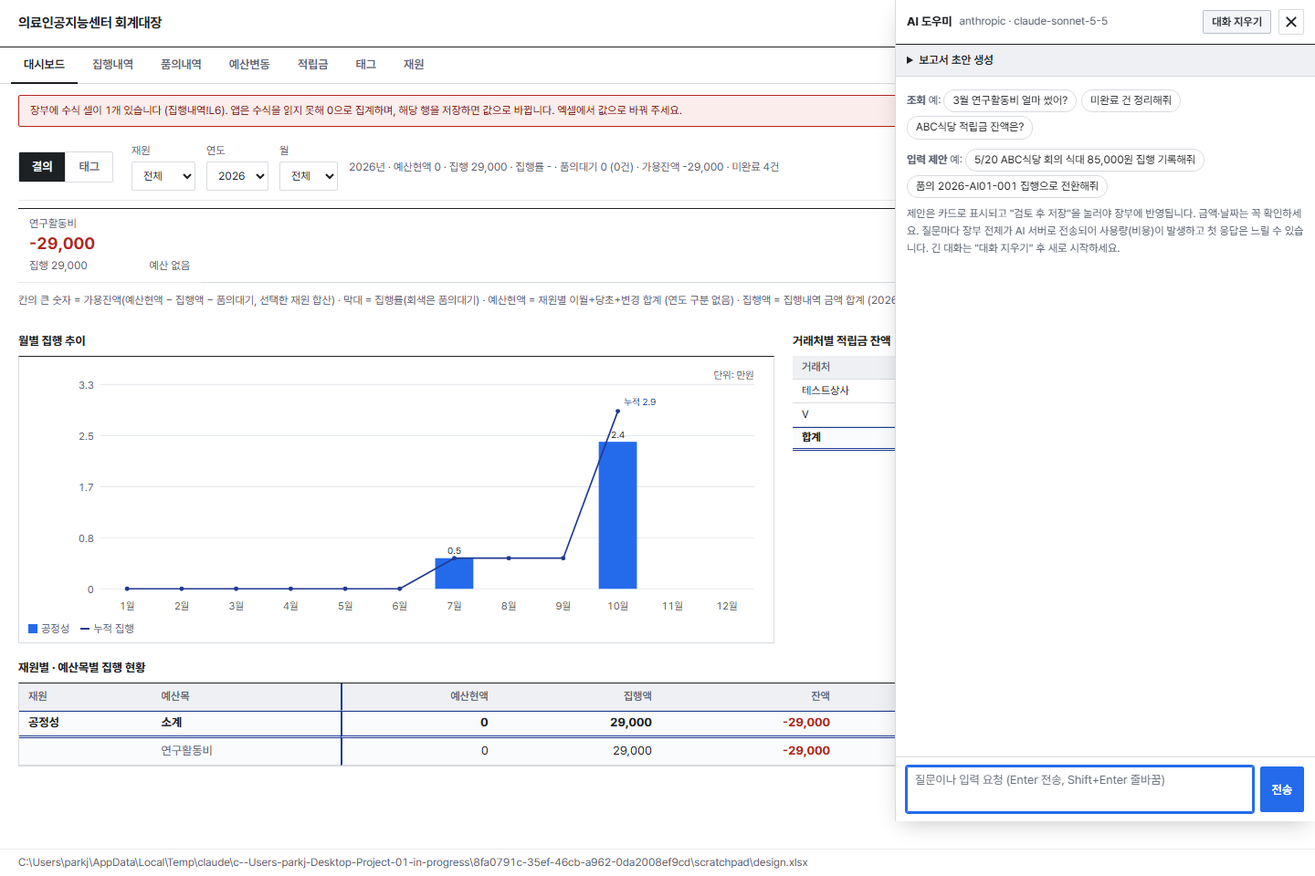
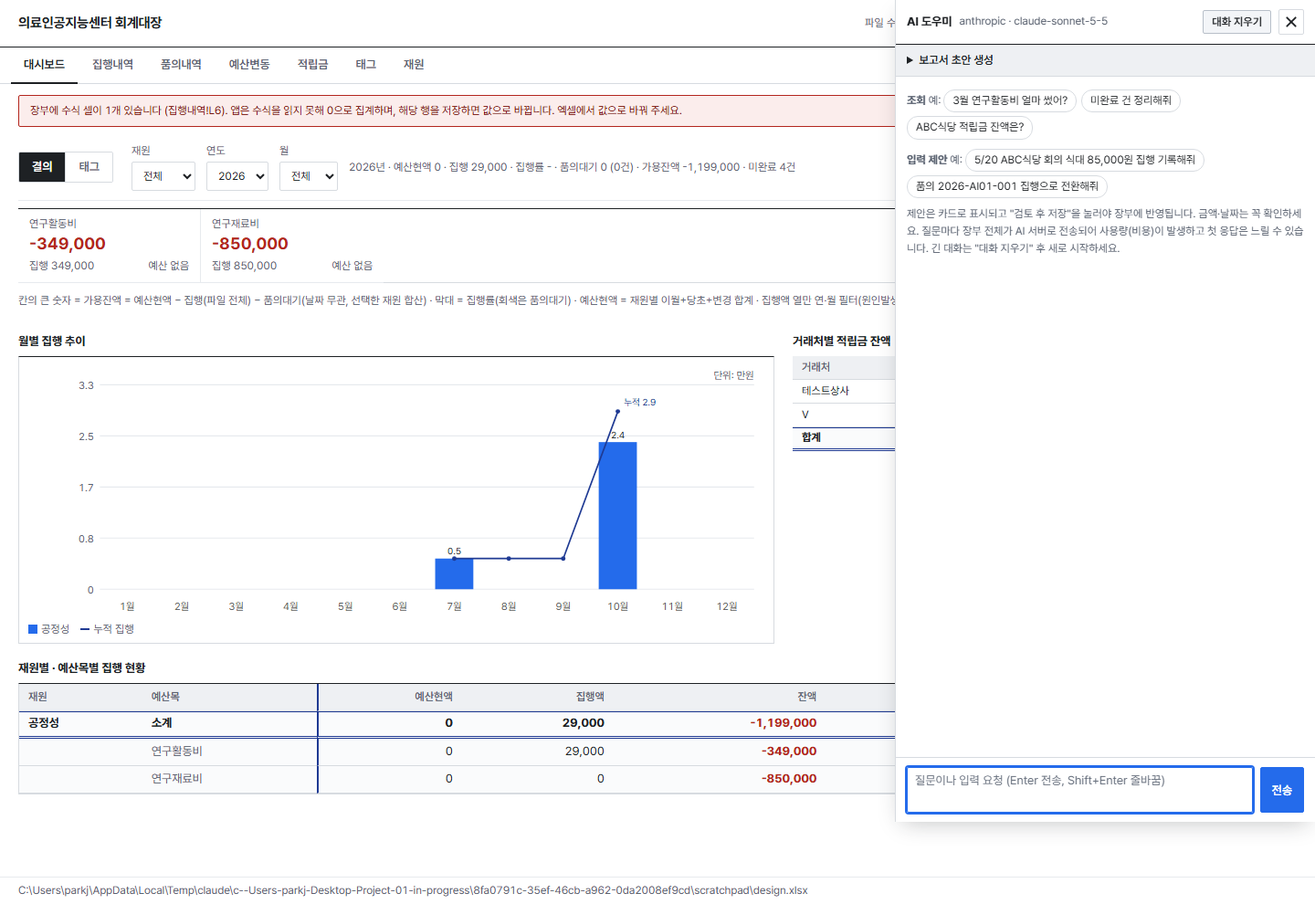
숫자 정의 통일: 가용잔액 공용 함수·대기 품의 날짜 무관·전환/수정 이중 차감 수정·인건비 합계 분리·선급 기준월·로컬 날짜
- availableBudget(fund, item, {excludeReq, excludeExec}) 를 대시보드·집행내역 열·저장 경고가 공유
- 대시보드 잔액·가용잔액·집행률은 파일 전체 기준, 연·월 필터는 집행액 열만. '집계 제외 n건' 링크
- 인건비 지급처 현황 합계는 예산 관리 행만, 관리 안 함 지급은 별도 줄
- 선급/미지급 발생은 직전 달까지, 지급은 이번 달까지
- today()/curMonth() 로컬 날짜 (UTC 오전 9시 전 어제 날짜 문제)

diff --git a/app/static/app.js b/app/static/app.js
@@ -6,7 +6,8 @@ const $$ = (s, el = document) => [...el.querySelectorAll(s)];
 const fmt = n => (n == null || isNaN(n)) ? "" : Math.round(n).toLocaleString("ko-KR");
 const pct = r => r == null ? "-" : (r * 100).toFixed(1) + "%";
 const esc = s => String(s ?? "").replace(/[&<>"']/g, c => ({ "&": "&amp;", "<": "&lt;", ">": "&gt;", '"': "&quot;", "'": "&#39;" }[c]));
-const today = () => new Date().toISOString().slice(0, 10);
+const localISO = d => `${d.getFullYear()}-${String(d.getMonth() + 1).padStart(2, "0")}-${String(d.getDate()).padStart(2, "0")}`;
+const today = () => localISO(new Date());  // 로컬(한국) 날짜. toISOString 은 UTC 라 오전 9시 전에 어제가 됨
 const mmdd = d => (typeof d === "string" && /^\d{4}-\d{2}-\d{2}$/.test(d)) ? d.slice(5, 7) + "/" + d.slice(8, 10) : d;
 // 행 식별값 (서버가 다른 창/MCP 에서 행이 밀렸는지 검사)
 const IDENT = { funds: ["재원코드"], exec: ["거래번호"], req: ["품의번호"], tags: ["태그명"], budget: ["재원", "변경회차", "신청일자"], deposit: ["일자", "거래처", "구분", "금액"] };
@@ -234,6 +235,7 @@ function filtered(kind) {
       if (QUICK === "fix" && r["상태"] !== "보완") return false;
       if (QUICK === "done" && r["상태"] !== "완료") return false;
       if (QUICK === "noevid" && hasEvidence(r)) return false;
+      if (QUICK === "excluded" && !isExcludedExec(r)) return false;
     }
     if (q && !Object.entries(r).some(([k, v]) => !k.startsWith("_") && norm(v).includes(q))) return false;
     return true;
@@ -404,35 +406,41 @@ function renderDashboard() {
   const inYear = r => !year || (r["원인발생일"] || "").startsWith(year);
   const upTo = r => !month || (r["원인발생일"] || "").slice(5, 7) <= month;
   const inMonth = r => month && (r["원인발생일"] || "").slice(5, 7) === month;
-  const execs = DATA.exec.filter(r => (!fund || r["재원"] === fund) && inYear(r) && upTo(r));
-  const reqs = DATA.req.filter(r => r["상태"] === "대기" && (!fund || r["재원"] === fund) && inYear(r) && upTo(r));
+  // 잔액·가용잔액·집행률은 파일 전체 기준(sa), 연·월 필터는 '집행액'(s)·'M월 집행'(sm) 열에만 적용. 대기 품의는 날짜 무관 전부 차감 (2026-10-13 결정)
+  const execsAll = DATA.exec.filter(r => !fund || r["재원"] === fund);
+  const execs = execsAll.filter(r => inYear(r) && upTo(r));
+  const reqs = DATA.req.filter(r => r["상태"] === "대기" && (!fund || r["재원"] === fund));
   const budgets = DATA.budget.filter(r => !fund || r["재원"] === fund);
 
-  const cell = () => ({ b: 0, s: 0, sm: 0, p: 0 });
+  const cell = () => ({ b: 0, s: 0, sm: 0, sa: 0, p: 0 });
   const m = {};
   funds.forEach(f => { m[f] = {}; items.forEach(i => m[f][i] = cell()); });
   budgets.forEach(r => m[r["재원"]] && items.forEach(i => m[r["재원"]][i].b += r[i] || 0));
-  execs.forEach(r => { const c = m[r["재원"]]?.[r["예산목"]]; if (c) { c.s += r["금액"] || 0; if (inMonth(r)) c.sm += r["금액"] || 0; } });
+  const excluded = [];  // 재원 목록 밖(외부 지급처 인건비 등)·예산목 목록 밖 집행: 예산 집계에서 제외
+  execsAll.forEach(r => { const c = m[r["재원"]]?.[r["예산목"]]; if (!c) { if (inYear(r) && upTo(r)) excluded.push(r); return; } c.sa += r["금액"] || 0; if (inYear(r) && upTo(r)) { c.s += r["금액"] || 0; if (inMonth(r)) c.sm += r["금액"] || 0; } });
   reqs.forEach(r => m[r["재원"]]?.[r["예산목"]] && (m[r["재원"]][r["예산목"]].p += r["금액"] || 0));
+  const add = (t, c) => { t.b += c.b; t.s += c.s; t.sm += c.sm; t.sa += c.sa; t.p += c.p; };
 
   // 카드
   const tot = cell();
-  funds.forEach(f => items.forEach(i => { tot.b += m[f][i].b; tot.s += m[f][i].s; tot.sm += m[f][i].sm; tot.p += m[f][i].p; }));
+  funds.forEach(f => items.forEach(i => add(tot, m[f][i])));
   const unpaid = execs.filter(r => !r["지출완료일"]).length;
-  const itemCards = items.map(i => { const c = cell(); funds.forEach(f => { c.b += m[f][i].b; c.s += m[f][i].s; c.sm += m[f][i].sm; c.p += m[f][i].p; }); return [i, c]; })
-    .filter(([, c]) => c.b || c.s || c.p);
+  const itemCards = items.map(i => { const c = cell(); funds.forEach(f => add(c, m[f][i])); return [i, c]; })
+    .filter(([, c]) => c.b || c.sa || c.p);
   $("#dash-cards").innerHTML = itemCards.length ? itemCards.map(([i, c]) => {
-    const avail = c.b - c.s - c.p, rate = c.b ? c.s / c.b : null, used = c.b ? Math.min(1, (c.s + c.p) / c.b) : 1;
-    const bar = c.b ? `<div class="bar" aria-hidden="true"><i class="${c.s > c.b ? "over" : ""}" style="width:${Math.min(100, c.s / c.b * 100).toFixed(1)}%"></i>${c.p ? `<i class="p" style="left:${Math.min(100, c.s / c.b * 100).toFixed(1)}%;width:${Math.max(0, (used - Math.min(1, c.s / c.b)) * 100).toFixed(1)}%"></i>` : ""}</div>` : "";
-    return `<div class="card" role="listitem" title="${esc(i)}: 예산현액 ${fmt(c.b)} · 집행 ${fmt(c.s)}${c.p ? ` · 품의대기 ${fmt(c.p)}` : ""} · 가용잔액 ${fmt(avail)}"><div class="k">${esc(i)}</div><div class="v${avail < 0 ? " neg" : ""}">${fmt(avail)}</div><div class="sub"><span>집행 ${fmt(c.s)}${c.p ? ` <span class="muted">+대기 ${fmt(c.p)}</span>` : ""}</span><span>${rate == null ? "예산 없음" : pct(rate)}</span></div>${bar}</div>`;
+    const avail = c.b - c.sa - c.p, rate = c.b ? c.sa / c.b : null, used = c.b ? Math.min(1, (c.sa + c.p) / c.b) : 1;
+    const bar = c.b ? `<div class="bar" aria-hidden="true"><i class="${c.sa > c.b ? "over" : ""}" style="width:${Math.min(100, c.sa / c.b * 100).toFixed(1)}%"></i>${c.p ? `<i class="p" style="left:${Math.min(100, c.sa / c.b * 100).toFixed(1)}%;width:${Math.max(0, (used - Math.min(1, c.sa / c.b)) * 100).toFixed(1)}%"></i>` : ""}</div>` : "";
+    return `<div class="card" role="listitem" title="${esc(i)}: 예산현액 ${fmt(c.b)} · 집행 ${fmt(c.sa)}${c.p ? ` · 품의대기 ${fmt(c.p)}` : ""} · 가용잔액 ${fmt(avail)}"><div class="k">${esc(i)}</div><div class="v${avail < 0 ? " neg" : ""}">${fmt(avail)}</div><div class="sub"><span>집행 ${fmt(c.sa)}${c.p ? ` <span class="muted">+대기 ${fmt(c.p)}</span>` : ""}</span><span>${rate == null ? "예산 없음" : pct(rate)}</span></div>${bar}</div>`;
   }).join("") : `<div class="card empty-card"><div class="k">예산목별 가용잔액</div><div class="v">-</div><div class="sub"><span>${DATA.funds.length ? "예산·집행 데이터가 없습니다" : "재원을 먼저 등록하세요"}</span></div></div>`;
-  $("#dash-note").textContent = (year ? (month ? `${year}년 1월~${parseInt(month)}월 누계 · ` : `${year}년 · `) : "전체 기간 · ") + `예산현액 ${fmt(tot.b)} · 집행 ${fmt(tot.s)}${month ? ` (${parseInt(month)}월 ${fmt(tot.sm)})` : ""} · 집행률 ${tot.b ? pct(tot.s / tot.b) : "-"} · 품의대기 ${fmt(tot.p)} (${reqs.length}건) · 가용잔액 ${fmt(tot.b - tot.s - tot.p)} · 미완료 ${unpaid}건`;
-  $("#dash-defs").innerHTML = `칸의 큰 숫자 = 가용잔액(예산현액 − 집행액 − 품의대기, 선택한 재원 합산) · 막대 = 집행률(회색은 품의대기) · 예산현액 = 재원별 이월+당초+변경 합계 (연도 구분 없음) · 집행액 = 집행내역 금액 합계${year ? ` (${year}년 원인발생일 기준)` : ""} · 품의대기 = 상태 '대기' 품의 합계 · 미완료 = 지출완료일 없는 집행 건`;
+  const exAmt = excluded.reduce((a, r) => a + (r["금액"] || 0), 0);
+  $("#dash-note").innerHTML = esc((year ? (month ? `${year}년 1월~${parseInt(month)}월 누계 · ` : `${year}년 · `) : "전체 기간 · ") + `예산현액 ${fmt(tot.b)} · 집행 ${fmt(tot.s)}${month ? ` (${parseInt(month)}월 ${fmt(tot.sm)})` : ""} · 집행률 ${tot.b ? pct(tot.sa / tot.b) : "-"} · 품의대기 ${fmt(tot.p)} (${reqs.length}건) · 가용잔액 ${fmt(tot.b - tot.sa - tot.p)} · 미완료 ${unpaid}건`)
+    + (excluded.length ? ` · <button type="button" class="link" data-act="show-excluded" title="재원 목록에 없는 지급처(외부 인건비 등)나 예산목 목록 밖의 집행. 집행내역·태그 집계에는 포함되지만 예산 집계에서는 제외">집계 제외 ${excluded.length}건 ${fmt(exAmt)}원</button>` : "");
+  $("#dash-defs").innerHTML = `칸의 큰 숫자 = 가용잔액 = 예산현액 − 집행(파일 전체) − 품의대기(날짜 무관, 선택한 재원 합산) · 막대 = 집행률(회색은 품의대기) · 예산현액 = 재원별 이월+당초+변경 합계 · 집행액 열만 연·월 필터(원인발생일) 적용 · 잔액 = 예산현액 − 집행(전체) · 미완료 = 지출완료일 없는 집행 건`;
 
   // 표
   const cols = month ? ["예산현액", `${parseInt(month)}월 집행`, "누계 집행", "잔액", "집행률", "품의대기", "가용잔액"] : ["예산현액", "집행액", "잔액", "집행률", "품의대기", "가용잔액"];
   const th = `<thead><tr><th>재원</th><th>예산목</th>${cols.map(c => `<th class="num${c === "예산현액" ? " amt" : ""}">${c}</th>`).join("")}</tr></thead>`;
-  const line = (f, i, c, cls) => `<tr class="${cls}"><td>${cls === "total" ? esc(f) : ""}</td><td>${esc(i)}</td><td class="num amt">${fmt(c.b)}</td>${month ? `<td class="num">${fmt(c.sm)}</td>` : ""}<td class="num">${fmt(c.s)}</td><td class="num ${c.b - c.s < 0 ? "neg" : ""}">${fmt(c.b - c.s)}</td><td class="num">${pct(c.b ? c.s / c.b : null)}</td><td class="num">${fmt(c.p)}</td><td class="num ${c.b - c.s - c.p < 0 ? "neg" : ""}">${fmt(c.b - c.s - c.p)}</td></tr>`;
+  const line = (f, i, c, cls) => `<tr class="${cls}"><td>${cls === "total" ? esc(f) : ""}</td><td>${esc(i)}</td><td class="num amt">${fmt(c.b)}</td>${month ? `<td class="num">${fmt(c.sm)}</td>` : ""}<td class="num">${fmt(c.s)}</td><td class="num ${c.b - c.sa < 0 ? "neg" : ""}">${fmt(c.b - c.sa)}</td><td class="num">${pct(c.b ? c.sa / c.b : null)}</td><td class="num">${fmt(c.p)}</td><td class="num ${c.b - c.sa - c.p < 0 ? "neg" : ""}">${fmt(c.b - c.sa - c.p)}</td></tr>`;
   let body = "";
   DASH_ROWS = [];
   funds.forEach(f => {
@@ -440,9 +448,9 @@ function renderDashboard() {
     let rows = "";
     items.forEach(i => {
       const c = m[f][i];
-      if (!c.b && !c.s && !c.p) return;
-      ft.b += c.b; ft.s += c.s; ft.sm += c.sm; ft.p += c.p;
-      rows += line(f, i, c, "sub"); DASH_ROWS.push([f, i, c.b, ...(month ? [c.sm] : []), c.s, c.b - c.s, c.b ? (c.s / c.b * 100).toFixed(1) + "%" : "", c.p, c.b - c.s - c.p]);
+      if (!c.b && !c.sa && !c.p) return;
+      add(ft, c);
+      rows += line(f, i, c, "sub"); DASH_ROWS.push([f, i, c.b, ...(month ? [c.sm] : []), c.s, c.b - c.sa, c.b ? (c.sa / c.b * 100).toFixed(1) + "%" : "", c.p, c.b - c.sa - c.p]);
     });
     if (!rows) return;
     body += line(f, "소계", ft, "total") + rows;
@@ -633,14 +641,21 @@ $("#dlg-form").addEventListener("submit", async e => {
     showFormError((missing.length ? `입력 필요: ${missing.join(", ")}` : "") + (invalid.length ? ` / 확인 필요: ${invalid.join(", ")}` : ""));
     firstBad?.focus(); return;
   }
-  // B8: 저장 전 경고 (차단 아님)
-  if ((kind === "exec" || kind === "req") && !row) {
+  // B8: 저장 전 경고 (차단 아님). 새 행·전환·수정 모두 잔액을 검사하되, 전환 중인 품의와 수정 중인 행 자신은 빼고 계산
+  if (kind === "exec" || kind === "req") {
     const warns = [];
-    if (rec["금액"] < 0) warns.push(`금액이 음수(${fmt(rec["금액"])}원)입니다. 반납·환입 기록이 맞나요?`);
-    const dup = DATA[kind].find(x => x["원인발생일"] === rec["원인발생일"] && (x["거래처"] || "") === (rec["거래처"] || "") && x["금액"] === rec["금액"]);
-    if (dup) warns.push(`같은 날·거래처·금액의 건이 이미 있습니다: ${dup["거래번호"] || dup["품의번호"]} (${dup["적요"] || "-"}). 중복 입력일 수 있습니다.`);
-    const av = availableBudget(rec["재원"], rec["예산목"]);
-    if (av != null && av - rec["금액"] < 0) warns.push(`${rec["재원"]} ${rec["예산목"]} 가용잔액 ${fmt(av)}원을 넘습니다 (저장 후 ${fmt(av - rec["금액"])}원).`);
+    const convertRowNo = dlg.dataset.convert ? Number(dlg.dataset.convert) : null;
+    const cur = row ? DATA[kind].find(x => x._row === Number(row)) : null;
+    if (!row) {
+      if (rec["금액"] < 0) warns.push(`금액이 음수(${fmt(rec["금액"])}원)입니다. 반납·환입 기록이 맞나요?`);
+      const dup = DATA[kind].find(x => x["원인발생일"] === rec["원인발생일"] && (x["거래처"] || "") === (rec["거래처"] || "") && x["금액"] === rec["금액"]);
+      if (dup) warns.push(`같은 날·거래처·금액의 건이 이미 있습니다: ${dup["거래번호"] || dup["품의번호"]} (${dup["적요"] || "-"}). 중복 입력일 수 있습니다.`);
+    }
+    const opts = convertRowNo != null ? { excludeReq: convertRowNo } : cur ? (kind === "exec" ? { excludeExec: cur._row } : { excludeReq: cur._row }) : {};
+    const counts = kind === "exec" || rec["상태"] === "대기";  // 취소·집행완료 품의는 잔액에 영향 없음
+    const av = availableBudget(rec["재원"], rec["예산목"], opts);
+    const changed = !cur || cur["재원"] !== rec["재원"] || cur["예산목"] !== rec["예산목"] || (rec["금액"] || 0) > (cur["금액"] || 0) || cur["상태"] !== rec["상태"];
+    if (counts && changed && av != null && av - rec["금액"] < 0) warns.push(`${rec["재원"]} ${rec["예산목"]} 가용잔액 ${fmt(av)}원을 넘습니다 (저장 후 ${fmt(av - rec["금액"])}원).`);
     if (warns.length && !confirm(warns.join("\n\n") + "\n\n그래도 저장할까요?")) return;
   }
   if (kind === "exec" && row) { const cur = DATA.exec.find(x => x._row === Number(row)); if (cur) ["상태", "증빙폴더", "증빙목록"].forEach(k => { rec[k] = cur[k]; }); }
@@ -670,12 +685,14 @@ $("#dlg-form").addEventListener("submit", async e => {
 });
 $("#dlg-save-more").addEventListener("click", () => { $("#dlg").dataset.saveMore = "1"; $("#dlg-form").requestSubmit(); });
 
-function availableBudget(fund, item) {
+// 가용잔액 = 예산현액 − 집행(파일 전체) − 대기 품의(날짜 무관). 대시보드·집행내역 열·저장 경고가 모두 이 함수를 쓴다 (2026-10-13 결정).
+// excludeReq / excludeExec: 품의→집행 전환 중인 품의, 수정 중인 집행 행은 빼고 계산 (이중 차감 방지)
+function availableBudget(fund, item, opts = {}) {
   if (!fund || !item) return null;
   const b = DATA.budget.filter(r => r["재원"] === fund).reduce((a, r) => a + (r[item] || 0), 0);
   if (!b && !DATA.budget.some(r => r["재원"] === fund)) return null;  // 예산 미등록 재원은 경고 생략
-  const s = DATA.exec.filter(r => r["재원"] === fund && r["예산목"] === item).reduce((a, r) => a + (r["금액"] || 0), 0);
-  const p = DATA.req.filter(r => r["재원"] === fund && r["예산목"] === item && r["상태"] === "대기").reduce((a, r) => a + (r["금액"] || 0), 0);
+  const s = DATA.exec.filter(r => r["재원"] === fund && r["예산목"] === item && r._row !== opts.excludeExec).reduce((a, r) => a + (r["금액"] || 0), 0);
+  const p = DATA.req.filter(r => r["재원"] === fund && r["예산목"] === item && r["상태"] === "대기" && r._row !== opts.excludeReq).reduce((a, r) => a + (r["금액"] || 0), 0);
   return b - s - p;
 }
 let DLG_ON_SAVED = null;
@@ -785,6 +802,7 @@ document.addEventListener("click", e => {
     return;
   }
   if (b.dataset.act === "xact") return execAction(Number(b.dataset.row), b.dataset.action, b);
+  if (b.dataset.act === "show-excluded") { switchTab("exec"); QUICK = "excluded"; FILTERS.exec = {}; $$("[data-filter][data-kind=exec]").forEach(el => { if (el.type === "checkbox") el.checked = false; else el.value = ""; }); renderExecTiles(); renderList("exec"); showAlert("예산 집계에서 제외된 집행만 표시 중입니다. 빠른 필터 타일을 누르거나 새로고침하면 해제됩니다.", "ok"); return; }
   if (b.dataset.add) return openForm(b.dataset.add);
   if (b.dataset.act === "dep-use") return openForm("deposit", null, { 거래처: b.dataset.vendor, 구분: "사용" });
   if (b.dataset.act === "dep-add") return openForm("deposit", null, { 거래처: b.dataset.vendor, 구분: "적립" });
@@ -1100,6 +1118,7 @@ $("#s-clear-key").addEventListener("click", async () => {
 let QUICK = "";
 const XD = { row: null, evid: null, drive: null };
 function evidCount(r) { return (DATA.evidence || []).filter(e => e["거래번호"] === r["거래번호"]).length; }
+function isExcludedExec(r) { return !DATA.funds.some(f => f["재원코드"] === r["재원"]) || !DATA.meta.budget_items.includes(r["예산목"]); }
 function hasEvidence(r) { return !!(r["증빙목록"]) || (DATA.evidence || []).some(e => e["거래번호"] === r["거래번호"]); }
 
 function renderExecTiles() {

diff --git a/app/static/labor.js b/app/static/labor.js
@@ -58,7 +58,9 @@ function laborLabel(kind, r) {
 
 // ---------- 조회 도우미 ----------
 const laborYear = () => $("#labor-year").value || String(new Date().getFullYear());
-function curMonth() { const y = laborYear(), now = new Date(); return y === String(now.getFullYear()) ? now.toISOString().slice(0, 7) : `${y}-01`; }
+function curMonth() { const y = laborYear(), now = new Date(); return y === String(now.getFullYear()) ? localISO(now).slice(0, 7) : `${y}-01`; }
+// 선급·미지급 기준월: 이번 달 급여는 아직 발생 전으로 보고 직전 달까지 누적 (2026-10-13 결정). 과거 연도는 12월까지
+function closedMonth() { const y = laborYear(), now = new Date(); return y === String(now.getFullYear()) ? addMonth(localISO(now).slice(0, 7), -1) : (y < String(now.getFullYear()) ? `${y}-12` : `${y}-00`); }
 const monthsOf = y => Array.from({ length: 12 }, (_, i) => `${y}-${String(i + 1).padStart(2, "0")}`);
 const addMonth = (ym, n) => { let y = +ym.slice(0, 4), m = +ym.slice(5, 7) + n; while (m > 12) { m -= 12; y++; } while (m < 1) { m += 12; y--; } return `${y}-${String(m).padStart(2, "0")}`; };
 const peopleNames = () => DATA.people.map(p => p["이름"]);
@@ -80,8 +82,10 @@ function prepaid(p, year, through) {
   // 이월선급 + 확정지급(지급월) − 발생(귀속월, 기준급여×재직월) + 조정, 기준월까지 누적. 양수 선급, 음수 미지급
   let accrued = 0, paid = 0, adj = 0;
   monthsOf(year).filter(m => m <= through).forEach(m => { if (activeIn(p, m)) accrued += salaryFor(p["이름"], m) || 0; });
-  DATA.labor.forEach(r => { if (r["이름"] === p["이름"] && r["상태"] === "확정" && r["지급월"].startsWith(year) && r["지급월"] <= through) paid += r["금액"] || 0; });
-  DATA.ladj.forEach(r => { if (r["이름"] === p["이름"] && r["월"].startsWith(year) && r["월"] <= through) adj += r["금액"] || 0; });
+  // 발생은 직전 달(through)까지, 확정 지급·조정은 이번 달까지 → 이번 달 지급은 선급으로 잡힘
+  const payThrough = year === String(new Date().getFullYear()) ? curMonth() : `${year}-12`;
+  DATA.labor.forEach(r => { if (r["이름"] === p["이름"] && r["상태"] === "확정" && r["지급월"].startsWith(year) && r["지급월"] <= payThrough) paid += r["금액"] || 0; });
+  DATA.ladj.forEach(r => { if (r["이름"] === p["이름"] && r["월"].startsWith(year) && r["월"] <= payThrough) adj += r["금액"] || 0; });
   return { opening: p["이월선급"] || 0, accrued, paid, adj, balance: (p["이월선급"] || 0) + paid - accrued + adj };
 }
 
@@ -134,14 +138,15 @@ function renderLaborFunds() {
     const b = laborBudget(c);
     return { c, name: payeeName(c), b, done, plan, external: !DATA.funds.some(f => f["재원코드"] === c) };
   });
-  const t = rows.reduce((a, r) => ({ b: a.b + (r.b || 0), done: a.done + r.done, plan: a.plan + r.plan }), { b: 0, done: 0, plan: 0 });
+  const t = rows.filter(r => r.b != null).reduce((a, r) => ({ b: a.b + r.b, done: a.done + r.done, plan: a.plan + r.plan }), { b: 0, done: 0, plan: 0 });
+  const u = rows.filter(r => r.b == null).reduce((a, r) => ({ n: a.n + 1, done: a.done + r.done, plan: a.plan + r.plan }), { n: 0, done: 0, plan: 0 });
   const cell = (v, neg) => `<td class="num${neg ? " neg" : ""}">${v == null ? '<span class="muted" title="인건비예산 미입력">-</span>' : fmt(v)}</td>`;
   const line = r => `<tr><td>${esc(r.c)}${r.external ? ' <span class="muted">(외부)</span>' : ""}</td><td class="wrap">${esc(r.name)}</td><td class="num amt">${r.b == null ? '<span class="muted">관리 안 함</span>' : fmt(r.b)}</td>${cell(r.done)}${cell(r.plan)}${cell(r.b == null ? null : r.b - r.done, r.b != null && r.b - r.done < 0)}${cell(r.b == null ? null : r.b - r.done - r.plan, r.b != null && r.b - r.done - r.plan < 0)}</tr>`;
-  $("#labor-funds").innerHTML = `<thead><tr><th>지급처</th><th>과제명 · 지급처명</th><th class="num amt">인건비 예산</th><th class="num">확정 지급</th><th class="num">예정</th><th class="num">확정잔액</th><th class="num">예정잔액</th></tr></thead><tbody>${rows.map(line).join("") || `<tr><td class="empty" colspan="7">${y}년 인건비 지급 건과 인건비 예산이 없습니다. 재원 탭의 예산변동(내부·외부인건비) 또는 재원의 인건비예산 열, 지급처 탭의 인건비예산을 확인하세요.</td></tr>`}</tbody>${rows.length ? `<tfoot><tr class="total"><td>합계</td><td></td><td class="num amt">${fmt(t.b)}</td><td class="num">${fmt(t.done)}</td><td class="num">${fmt(t.plan)}</td><td class="num${t.b - t.done < 0 ? " neg" : ""}">${fmt(t.b - t.done)}</td><td class="num${t.b - t.done - t.plan < 0 ? " neg" : ""}">${fmt(t.b - t.done - t.plan)}</td></tr></tfoot>` : ""}`;
+  $("#labor-funds").innerHTML = `<thead><tr><th>지급처</th><th>과제명 · 지급처명</th><th class="num amt">인건비 예산</th><th class="num">확정 지급</th><th class="num">예정</th><th class="num">확정잔액</th><th class="num">예정잔액</th></tr></thead><tbody>${rows.map(line).join("") || `<tr><td class="empty" colspan="7">${y}년 인건비 지급 건과 인건비 예산이 없습니다. 재원 탭의 예산변동(내부·외부인건비) 또는 재원의 인건비예산 열, 지급처 탭의 인건비예산을 확인하세요.</td></tr>`}</tbody>${rows.length ? `<tfoot><tr class="total"><td>합계 (예산 관리 지급처)</td><td></td><td class="num amt">${fmt(t.b)}</td><td class="num">${fmt(t.done)}</td><td class="num">${fmt(t.plan)}</td><td class="num${t.b - t.done < 0 ? " neg" : ""}">${fmt(t.b - t.done)}</td><td class="num${t.b - t.done - t.plan < 0 ? " neg" : ""}">${fmt(t.b - t.done - t.plan)}</td></tr>${u.n ? `<tr class="sub"><td>관리 안 함 지급처 ${u.n}곳</td><td class="muted">예산 없음 · 잔액 계산 제외</td><td class="num amt"></td><td class="num">${fmt(u.done)}</td><td class="num">${fmt(u.plan)}</td><td></td><td></td></tr>` : ""}</tfoot>` : ""}`;
   $("#labor-funds").closest(".table-wrap").classList.toggle("empty", !rows.length);
 }
 function renderLaborPlan() {
-  const y = laborYear(), months = monthsOf(y), through = curMonth();
+  const y = laborYear(), months = monthsOf(y), through = closedMonth();
   const people = DATA.people.filter(p => months.some(m => activeIn(p, m)) || DATA.labor.some(r => r["이름"] === p["이름"] && r["귀속월"].startsWith(y)));
   const head = `<thead><tr><th>이름</th><th>구분</th>${months.map((m, i) => `<th class="num${i === 0 ? " amt" : ""}">${i + 1}월</th>`).join("")}<th class="num amt">연간 배분</th><th class="num">확정</th><th class="num">예정</th><th class="num">선급 / 미지급</th></tr></thead>`;
   const body = people.map(p => {
@@ -170,12 +175,12 @@ function renderLaborPlan() {
   const foot = people.length ? `<tfoot><tr class="total"><td>합계</td><td></td>${tot.map((v, i) => `<td class="num${i === 0 ? " amt" : ""}">${fmt(v)}</td>`).join("")}<td class="num amt">${fmt(tot.reduce((a, b) => a + b, 0))}</td><td class="num">${fmt(all.filter(r => r["상태"] === "확정").reduce((a, r) => a + r["금액"], 0))}</td><td class="num">${fmt(all.filter(r => r["상태"] === "예정").reduce((a, r) => a + r["금액"], 0))}</td><td></td></tr></tfoot>` : "";
   $("#labor-plan").innerHTML = head + `<tbody>${body || `<tr><td class="empty" colspan="18">인원이 없습니다. [인원] 탭에서 지급 대상을 먼저 등록하세요.</td></tr>`}</tbody>` + foot;
   $("#labor-plan").closest(".table-wrap").classList.toggle("empty", !people.length);
-  $("#labor-plan-note").textContent = `${y}년 귀속월 기준 · 칸 = 예정+확정 배분 합계, 작은 글자 = 기준급여 대비 · 선급/미지급은 ${through}까지 누적 (지급월 기준 확정 지급 − 귀속월 기준 발생)`;
+  $("#labor-plan-note").textContent = `${y}년 귀속월 기준 · 칸 = 예정+확정 배분 합계, 작은 글자 = 기준급여 대비 · 선급/미지급은 직전 달(${through.endsWith("-00") ? "없음" : through})까지 누적 (확정 지급 − 기준급여 발생)`;
 }
 function renderPrepaid() {
-  const y = laborYear(), through = curMonth();
+  const y = laborYear(), through = closedMonth();
   const rows = DATA.people.map(p => ({ p, ...prepaid(p, y, through) })).filter(x => x.opening || x.accrued || x.paid || x.adj);
-  $("#labor-prepaid-note").textContent = `${y}년 ${through}까지 누적. 잔액 = 이월선급 + 확정 지급(지급월) − 발생(귀속월 기준급여 × 재직월) + 조정. 양수 선급, 음수 미지급.`;
+  $("#labor-prepaid-note").textContent = `${y}년 직전 달(${through.endsWith("-00") ? "없음" : through})까지 누적. 이번 달 급여는 아직 발생 전으로 보며, 이번 달 확정 지급은 선급으로 잡힙니다. 잔액 = 이월선급 + 확정 지급(지급월) − 발생(귀속월 기준급여 × 재직월) + 조정. 양수 선급, 음수 미지급.`;
   $("#labor-prepaid").innerHTML = `<thead><tr><th>이름</th><th class="num amt">이월선급</th><th class="num">발생 누계</th><th class="num">확정 지급 누계</th><th class="num">조정</th><th class="num">잔액 (선급 + / 미지급 −)</th></tr></thead><tbody>${rows.map(x => `<tr><td>${esc(x.p["이름"])}</td><td class="num amt">${fmt(x.opening)}</td><td class="num">${fmt(x.accrued)}</td><td class="num">${fmt(x.paid)}</td><td class="num">${fmt(x.adj)}</td><td class="num${x.balance < 0 ? " neg" : ""}">${fmt(x.balance)}</td></tr>`).join("") || '<tr><td class="empty" colspan="6">기준급여·지급·조정 내역이 있는 인원이 없습니다.</td></tr>'}</tbody>`;
   $("#labor-prepaid").closest(".table-wrap").classList.toggle("empty", !rows.length);
 }

diff --git a/app/static/style.css b/app/static/style.css
@@ -371,3 +371,6 @@ dialog .fld input, dialog .fld select { font-size: 13px; }
 .bulk-rows { display: flex; flex-direction: column; gap: 6px; margin-bottom: 8px; }
 .bulk-row { display: grid; grid-template-columns: 1fr 160px auto; gap: 8px; align-items: center; }
 .bulk-row input { text-align: right; }
+
+.btn.link, button.link { border: 0; background: none; padding: 0; font: inherit; color: var(--primary); text-decoration: underline; cursor: pointer; }
+button.link:hover { color: var(--primary-dark); }

diff --git a/app/README.md b/app/README.md
@@ -59,7 +59,7 @@
 
 ### 대시보드
 
-- **결의** 탭: 위에서부터 예산목별 가용잔액 칸(큰 숫자 = 예산현액 − 집행 − 품의대기, 막대 = 집행률, 회색은 품의대기; 재원 필터가 '전체'면 합산) → 월별 집행 추이(막대 + 남색 누적선, 예산현액 기준선) · 거래처별 적립금 잔액 → 재원×예산목별 집행 현황 표. 전체 합계(예산현액·집행·집행률·품의대기·가용잔액·미완료)는 필터 줄 오른쪽 한 줄에 나옵니다. 연도 필터는 집행·품의에만 적용되고 예산은 재원 기준(연도 구분 없음)입니다. **월**을 고르면 당월 집행과 연초~당월 누계를 함께 보여줍니다.
+- **결의** 탭: 위에서부터 예산목별 가용잔액 칸(큰 숫자 = 예산현액 − 집행 − 품의대기, 막대 = 집행률, 회색은 품의대기; 재원 필터가 '전체'면 합산) → 월별 집행 추이(막대 + 남색 누적선, 예산현액 기준선) · 거래처별 적립금 잔액 → 재원×예산목별 집행 현황 표. 전체 합계(예산현액·집행·집행률·품의대기·가용잔액·미완료)는 필터 줄 오른쪽 한 줄에 나옵니다. 잔액·가용잔액·집행률은 연·월 필터와 무관하게 파일 전체 기준이고(대기 품의도 날짜와 무관하게 전부 차감), 연·월 필터는 **집행액** 열에만 적용됩니다. **월**을 고르면 당월 집행과 연초~당월 누계를 함께 보여줍니다. 재원 목록에 없는 지급처(외부 인건비)나 예산목 밖의 집행은 예산 집계에서 빠지며 필터 줄의 "집계 제외 n건"을 눌러 확인할 수 있습니다.
 - **태그** 탭: 집행내역(적립 선결제 건 제외) + 적립금 사용 건을 태그별·분류별·월별로 집계합니다. 결의 집행액과의 차이는 표 위 "조정" 줄에 나옵니다.
 - **CSV 저장**, **인쇄** 버튼으로 마감 자료를 뽑습니다.
 
@@ -171,7 +171,7 @@ claude mcp add ledger -s user -- python "C:/Users/parkj/Desktop/Project/01 in pr
 | 증빙 | 앱이 신설. 집행 건별 증빙 파일 기록 (드라이브 파일 ID 포함) |
 | 대시보드 | 사용하지 않음 (대시보드는 웹에서만) |
 
-집계 규칙: 예산현액 = 재원·예산목별 (이월+당초+변경) 합계. 집행액 = 집행내역 금액 합계(원인발생일 기준, 미완료 건 포함). 품의대기 = 상태 '대기' 품의 합계. 가용잔액 = 예산현액 − 집행액 − 품의대기.
+집계 규칙: 예산현액 = 재원·예산목별 (이월+당초+변경) 합계. 집행액 = 집행내역 금액 합계(원인발생일 기준, 미완료 건 포함). 품의대기 = 상태 '대기' 품의 합계. 가용잔액 = 예산현액 − 집행액(파일 전체) − 품의대기(날짜 무관). 집행내역의 '예산목 잔액' 열과 저장 전 경고도 같은 값을 쓰며, 품의→집행 전환과 수정 시에는 해당 행 자신을 빼고 계산합니다. 인건비 선급·미지급은 직전 달까지의 발생액 기준입니다.
 
 ## 10. 자주 묻는 문제
 
